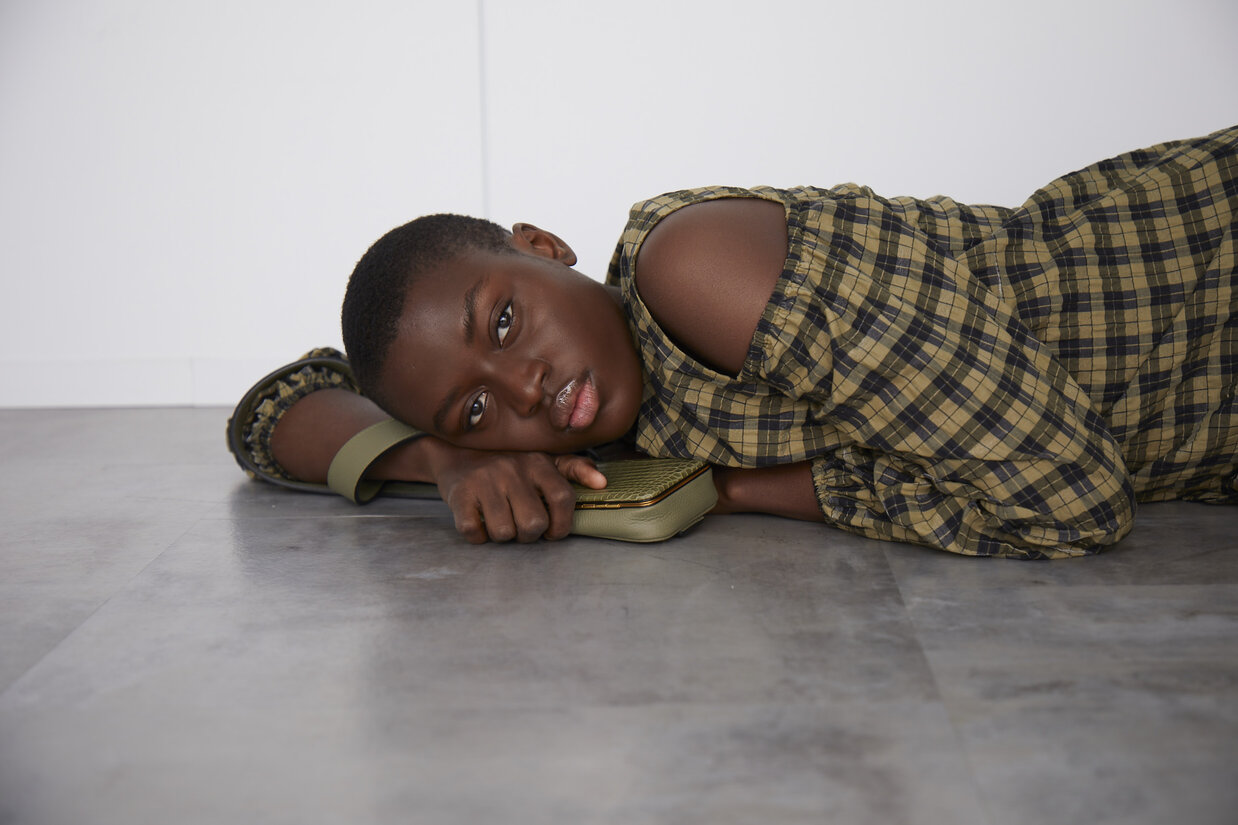
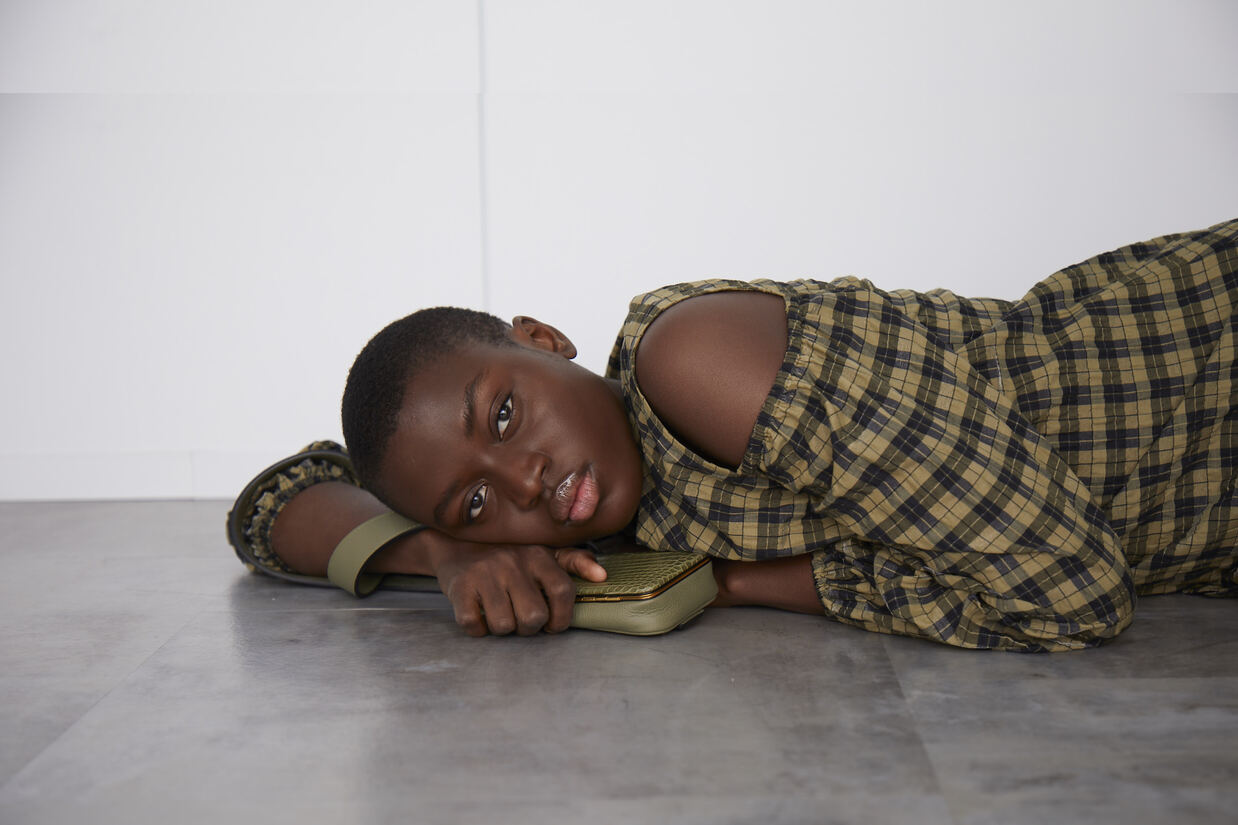
changes to experience html and css

diff --git a/experience.html b/experience.html
@@ -1,39 +1,54 @@
-<!<!DOCTYPE html>
-<html>
+<!DOCTYPE html>
+<html lang="en">
 <head>
   <meta charset="utf-8">
   <title>Adriana Iaffa's Profile</title>
   <meta name="viewport" content="width=device-width, initial-scale=1.0">
-  <link rel="stylesheet" href="styles.css">
+  <link rel="stylesheet" href="experience.css">
   <link href="<link rel="preconnect" href="https://fonts.googleapis.com">
-<link rel="preconnect" href="https://fonts.gstatic.com" crossorigin>
-<link href="https://fonts.googleapis.com/css2?family=Montserrat:wght@100&display=swap" rel="stylesheet"></head>
-    <title>Home</title>
+  <link rel="preconnect" href="https://fonts.gstatic.com" crossorigin>
+  <link href="https://fonts.googleapis.com/css2?family=Montserrat:wght@100&display=swap" rel="stylesheet"></head>
   <body>
 
-    <div class="main-nav">
-        <ul class="nav">
-          <li class="name">Adriana Iaffa</li>
-          <li><a href="#">Home</a></li>
-          <li><a href="#">Experience</a></li>
-        </ul>
-    </div>
-<img src="rsz_fashion.jpg" alt="image of a model posing">
-      <h1>Experience</h1>
+        <div class="main-nav">
+            <ul class="nav">
+              <li class="name">Adriana Iaffa</li>
+              <li><a href="index.html">Home</a></li>
+              <li><a href="experience.html">Experience</a></li>
+            </ul>
+        </div>
 
 
-
-    <footer>
-      <ul>
-        <li><a href="https://www.instagram.com/adrianaiaffa" target="_blank" class="social instagram">Instagram</a></li>
-        <li><a href="https://www.linkedin.com/in/adriana-iaffa-7b7b6198/" target="_blank" class="social linkedin">LinkedIn</a></li>
-        <li><a href="https://github.com/AdrianaIaffa" target="_blank"class="social github">Github</a></li>
-      </ul>
-      <p class="copyright">Copyright 2022, Adriana Iaffa</p>
-    </footer>
+        <header>
+          <img class="profile-image" src="images/rsz_backgroundexperience.jpg" alt="image of a model posing">
+        </header>
 
 
+        <main class="flex">
+            <div class="card">
+              <h2>Experience</h2>
+              <p>Experienced Senior Photographer with a demonstrated history of working in the retail industry. Skilled in:</p>
+                <ul>
+                  <li>Photo Shoots</li>
+                  <li>Mac</li>
+                  <li>Image Editing</li>
+                  <li>Adobe Photoshop</li>
+                </ul>
+                <p>Strong arts and design professional with a Contemporary media practice focused in Contemporary Media Practice from University of Westminster.</p>
+            </div>
 
+            <div class="card">
+              <img src="images/rsz_fashion.jpg" alt="image of a model posing 2">
+        </main>
+
+
+        <footer>
+          <ul>
+            <li><a href="https://www.instagram.com/adrianaiaffa" target="_blank" class="social instagram">Instagram</a></li>
+            <li><a href="https://www.linkedin.com/in/adriana-iaffa-7b7b6198/" target="_blank" class="social linkedin">LinkedIn</a></li>
+            <li><a href="https://github.com/AdrianaIaffa" target="_blank"class="social github">Github</a></li>
+          </ul>
+          <p class="copyright">Copyright 2022, Adriana Iaffa</p>
+        </footer>
   </body>
-
-</html>
+  </html>

diff --git a/experience.css b/experience.css
@@ -1,3 +1,4 @@
+/* Global Layout Set-up */
 * {
   box-sizing: border-box;
 }
@@ -10,6 +11,7 @@ body {
   color: #222;
   background: #f7f5f0;
 }
+/* Link Styles */
 
 a {
   text-decoration: none;
@@ -19,6 +21,7 @@ a:hover {
   color: #6633ff;
 }
 
+/* Section Styles */
 
 .main-nav {
   width: 100%;
@@ -52,6 +55,46 @@ a:hover {
   color: white
 }
 
+header {
+
+  padding-top: 60px;
+}
+header {
+  line-height: 1.5;
+}
+header .profile-image {
+  margin-top: 50px;
+  width: 500px;
+  height: 350px;
+  border-radius: 0%;
+  border: 1px solid black;
+  transition: all .5s;
+}
+
+
+
+.tag {
+  background-color: transparent;
+  color: white;
+  padding: 10px;
+  border-radius: 5px;
+  display: table;
+  margin: 10px auto;
+}
+.location {
+  background-color: transparent;
+  color: white;
+}
+.card {
+  margin: 30px;
+  padding: 20px 40px 40px;
+  max-width: 500px;
+  text-align: left;
+  background: #fff;
+  border-bottom: 4px solid #ccc;
+  border-radius: 6px;
+  transition: all .5s;
+}
 
 footer {
   width: 100%;
@@ -98,4 +141,48 @@ a.social:hover {
 }
 .clearfix {
   clear: both;
+}
+
+/* Styles for larger screens */
+@media screen and (min-width: 720px) {
+
+  .flex {
+      display: -ms-flexbox;      /* TWEENER - IE 10 */
+      display: flex;
+      max-width: 1200px;
+      -ms-flex-pack: distribute;
+      justify-content: space-around;
+      margin: 0 auto;
+  }
+
+  header {
+    min-height: 470px;
+  }
+
+  .nav {
+    max-width: 1200px;
+    padding: 0 30px;
+  }
+
+
+  main {
+    padding-top: 20px;
+  }
+
+  main p {
+    line-height: 1.6em;
+  }
+
+  footer {
+    font-size: 1.3em;
+    max-width: 1200px;
+    margin: 40px auto;
+  }
+
+}
+
+h2 {
+  text-align: center;
+
+
 }

diff --git a/index.html b/index.html
@@ -7,14 +7,15 @@
   <link rel="stylesheet" href="styles.css">
   <link href="<link rel="preconnect" href="https://fonts.googleapis.com">
 <link rel="preconnect" href="https://fonts.gstatic.com" crossorigin>
-<link href="https://fonts.googleapis.com/css2?family=Montserrat:wght@100&display=swap" rel="stylesheet"> " rel="stylesheet"></head>
+<link href="https://fonts.googleapis.com/css2?family=Montserrat:wght@100&display=swap" rel="stylesheet"></head>
   <body>
 
     <div class="main-nav">
         <ul class="nav">
           <li class="name">Adriana Iaffa</li>
-          <li><a href="#">Home</a></li>
-          <li><a href="#">Experience</a></li>
+          <li><a href="index.html">Home</a></li>
+          <li><a href="experience.html">Experience</a></li>
+          <li><a href="contact.html">Contact</a></li>
         </ul>
     </div>
 
@@ -38,6 +39,8 @@
           <li>HTML</li>
           <li>CSS</li>
           <li>JavaScript</li>
+          <li>Dev Tools</li>
+
         </ul>
         <p> I can't wait to begin designing new websites soon. I’d like to work for a web design firm and hopefully learn about creative coding.</p>
       </div>

diff --git a/styles.css b/styles.css
@@ -98,9 +98,6 @@ header .profile-image:hover {
   border-radius: 6px;
   transition: all .5s;
 }
-.card:hover {
-  border-color: #ff99ff;
-}
 
 ul.skills {
   padding: 0;
@@ -110,14 +107,15 @@ ul.skills {
 .skills li {
   border-radius: 6px;
   display: inline-block;
-  background: #ff9904;
+  background: grey;
   color: white;
   padding: 5px 10px;
   margin: 2px;
 }
 
 .skills li:nth-child(odd) {
-  background: #0399ff;
+  background: lightgrey;
+  color: black;
 }
 
 footer {
@@ -203,4 +201,9 @@ a.social:hover {
     margin: 40px auto;
   }
 
+}
+
+h2 {
+
+  text-align: center;
 }
